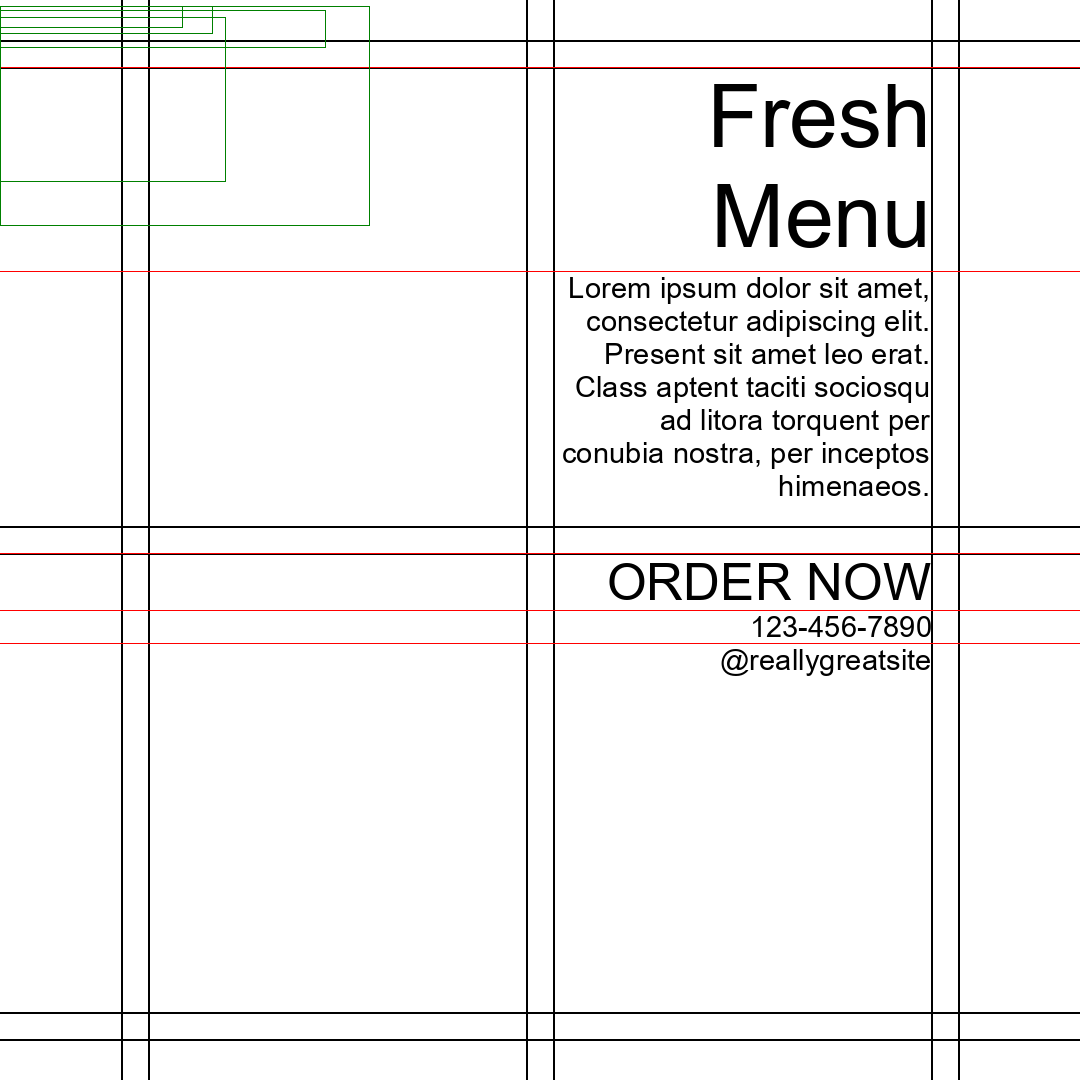
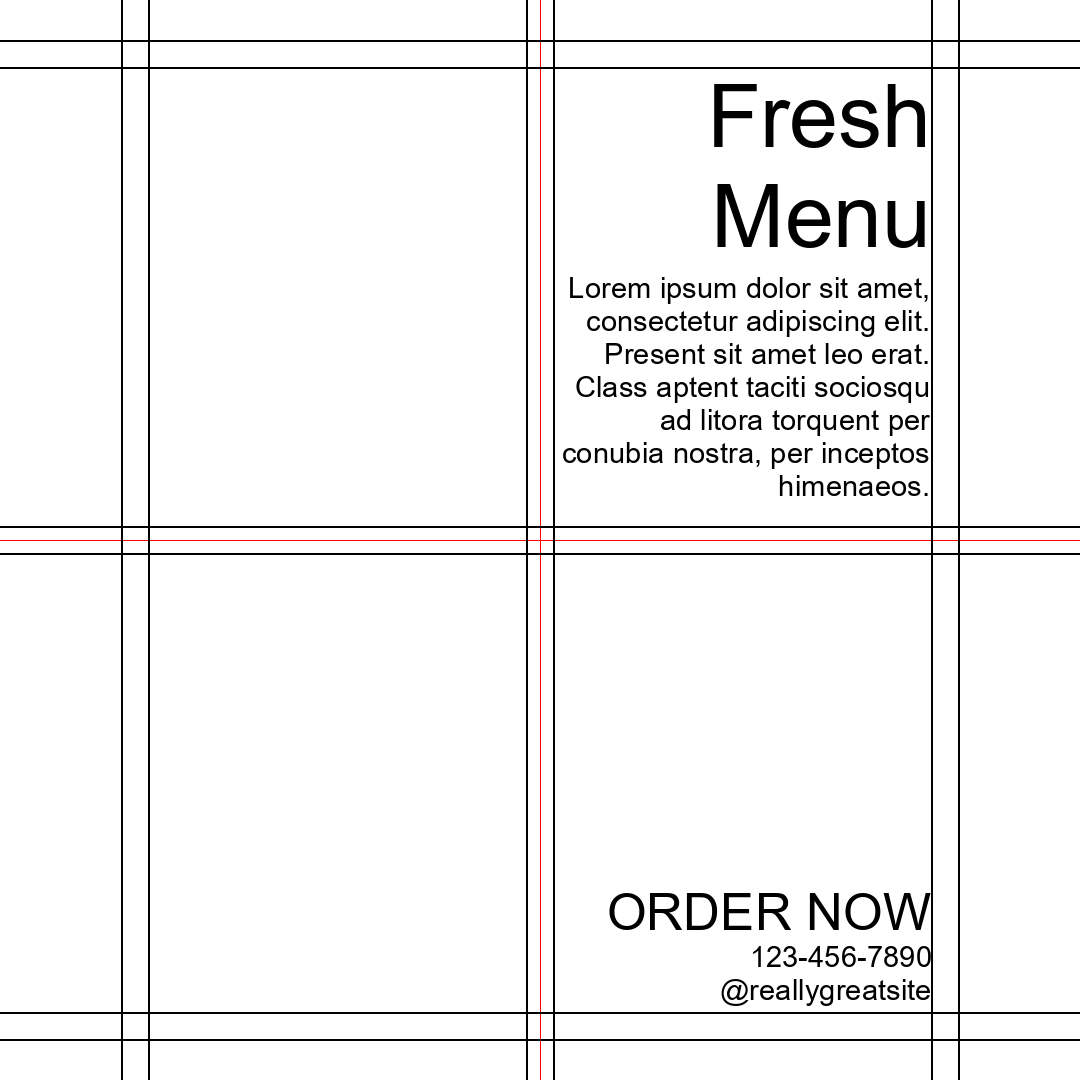
vertical alignment sorted, inter-element spacing can be improved

Changed region(s): [[0.55, 0.5194, 0.8556, 0.6417], [0.55, 0.825, 0.8556, 0.9472], [0.0, 0.0, 0.2139, 0.0306]]

diff --git a/step4.py b/step4.py
@@ -195,6 +195,8 @@ def draw(width, height, font, grid:Grid, groups):
     draw = ImageDraw.Draw(image)
     row_spacing = grid.row_spacing
     col_spacing = grid.col_spacing
+    draw.line((0, height/2, width, height/2), fill="red", width=1)
+    draw.line((width/2, 0, width/2, height), fill="red", width=1)
     for i in range(0, rows+1):
         draw.line((0, grid.vertical_padding + i * row_spacing - half_gutter_spacing, width, grid.vertical_padding + i * row_spacing - half_gutter_spacing), fill="black", width=2)
         draw.line((0, grid.vertical_padding + i * row_spacing + half_gutter_spacing, width, grid.vertical_padding + i * row_spacing + half_gutter_spacing), fill="black", width=2)
@@ -214,15 +216,21 @@ def draw(width, height, font, grid:Grid, groups):
                 canvas_width=width)
             
     groups = add_alignment(grid, groups)
+    # TODO: Sort groups to put similar priority together in y-axis
+    # TODO: Heirarchy (Rule of odds)
+    # TODO: Hanging indent for bullets, etc.
+    # TODO: Hanging indent for images.
     for group in groups:
         elements = group['elements']
         col = group['col']
         row = group['row']
-        y = grid.vertical_padding + row * row_spacing + half_gutter_spacing
+        y_start = grid.vertical_padding + row * row_spacing + half_gutter_spacing
+        y = y_start
         for i in range(len(elements)):
+            prominence = elements[i]['prominence']
+            # y = y + line_spacing[prominence-1]
             text = elements[i]['description']
-            priority = elements[i]['prominence']
-            ft = font.font_variant(size=font_sizes[priority-1] * font_factor)
+            ft = font.font_variant(size=font_sizes[prominence-1] * font_factor)
             wrapper = TextWrapper(text, ft, col_spacing - 2 * half_gutter_spacing)
             wrapped_text = wrapper.wrapped_text()
             alignment_x = elements[i]['alignment_x']
@@ -232,33 +240,35 @@ def draw(width, height, font, grid:Grid, groups):
                 align = "center"
             else:
                 align = "right"
-            xy0, xy1, xy2, xy3 = draw.multiline_textbbox((0,0), wrapped_text, spacing=line_spacing[priority-1], font=ft, align=align)
+            xy0, xy1, xy2, xy3 = draw.multiline_textbbox((0,0), wrapped_text, spacing=line_spacing[prominence-1], font=ft, align=align)
             if alignment_x > 0:
                 x = grid.horizontal_padding + col * col_spacing + half_gutter_spacing
             elif alignment_x == 0:
                 x = grid.horizontal_padding + (col + 0.5) * col_spacing - (xy2 - xy0)/2
             else:
                 x = grid.horizontal_padding + (col+1) * col_spacing - half_gutter_spacing - (xy2 - xy0)
-            text_position = (x, y)
-            draw.line((0,y,width,y),fill="red", width=1)
-            draw.multiline_text(text_position, wrapped_text, spacing=line_spacing[priority-1], fill="black", align=align, font=ft)
-            y = y + (xy3-xy1) + 2 * line_spacing[priority-1]
-
-    # cols = [0,0,0,1,1,1,2,2,2]
-    # rows = [0,1,2,0,1,2,0,1,2]
-    # for i in range(len(elements)):
-    #     col = cols[i]
-    #     row = rows[i]
-    #     text = elements[i]['description']
-    #     print(text)
-    #     text_position = (col * col_spacing + half_gutter_spacing, row * row_spacing + half_gutter_spacing)
-    #     priority = elements[i]['prominence']
-    #     ft = font.font_variant(size=font_sizes[priority-1] * font_factor)
-    #     # to test multiline support remove the comment in the following line 
-    #     max_width = prominence_ranges[priority-1] * width # * 0.8
-    #     wrapper = TextWrapper(text, ft, max_width)
-    #     wrapped_text = wrapper.wrapped_text()
-    #     draw.multiline_text(text_position, wrapped_text, spacing=line_spacing[priority-1], fill="black", font=ft)    
+            elements[i]['x'] = x
+            elements[i]['y'] = y
+            elements[i]['text'] = wrapped_text
+            elements[i]['align'] = align
+            y = y + (xy3-xy1) + 2 * line_spacing[prominence-1]
+        for element in elements:
+            prominence = element['prominence']
+            ft = font.font_variant(size=font_sizes[prominence-1] * font_factor)
+            alignment_y = element['alignment_y']
+            if alignment_y > 0:
+                y_delta = 0
+            elif alignment_y == 0:
+                y_delta = (row_spacing - 2*half_gutter_spacing - (y-y_start))/2
+            elif alignment_y < 0:
+                y_delta = row_spacing - 2*half_gutter_spacing - (y-y_start)
+            draw.multiline_text(
+                (element['x'], element['y']+y_delta),
+                element['text'],
+                spacing=line_spacing[prominence-1],
+                fill="black",
+                align=element['align'],
+                font=ft)
     return image
 
 if __name__ == "__main__":
